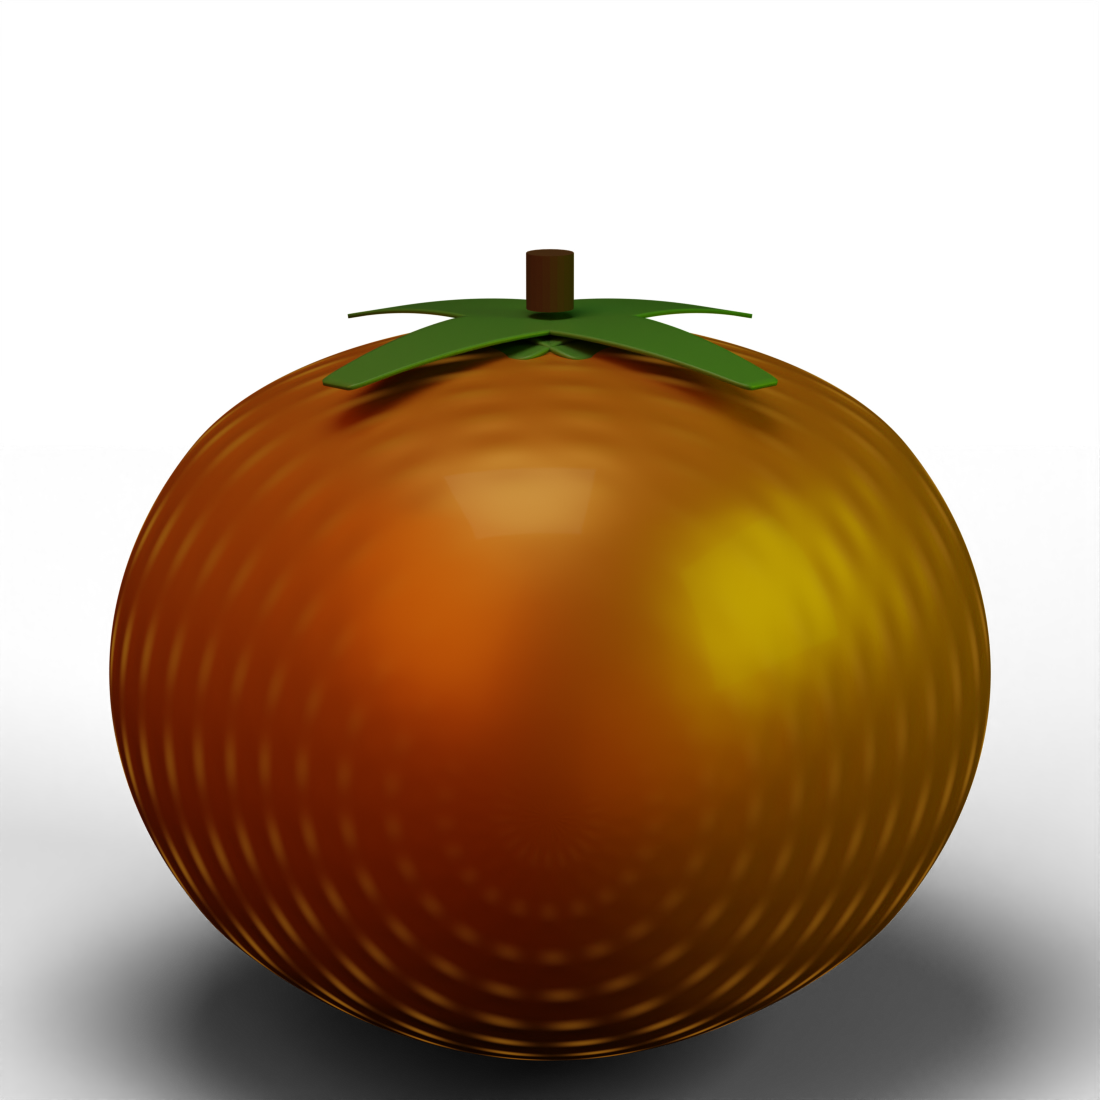
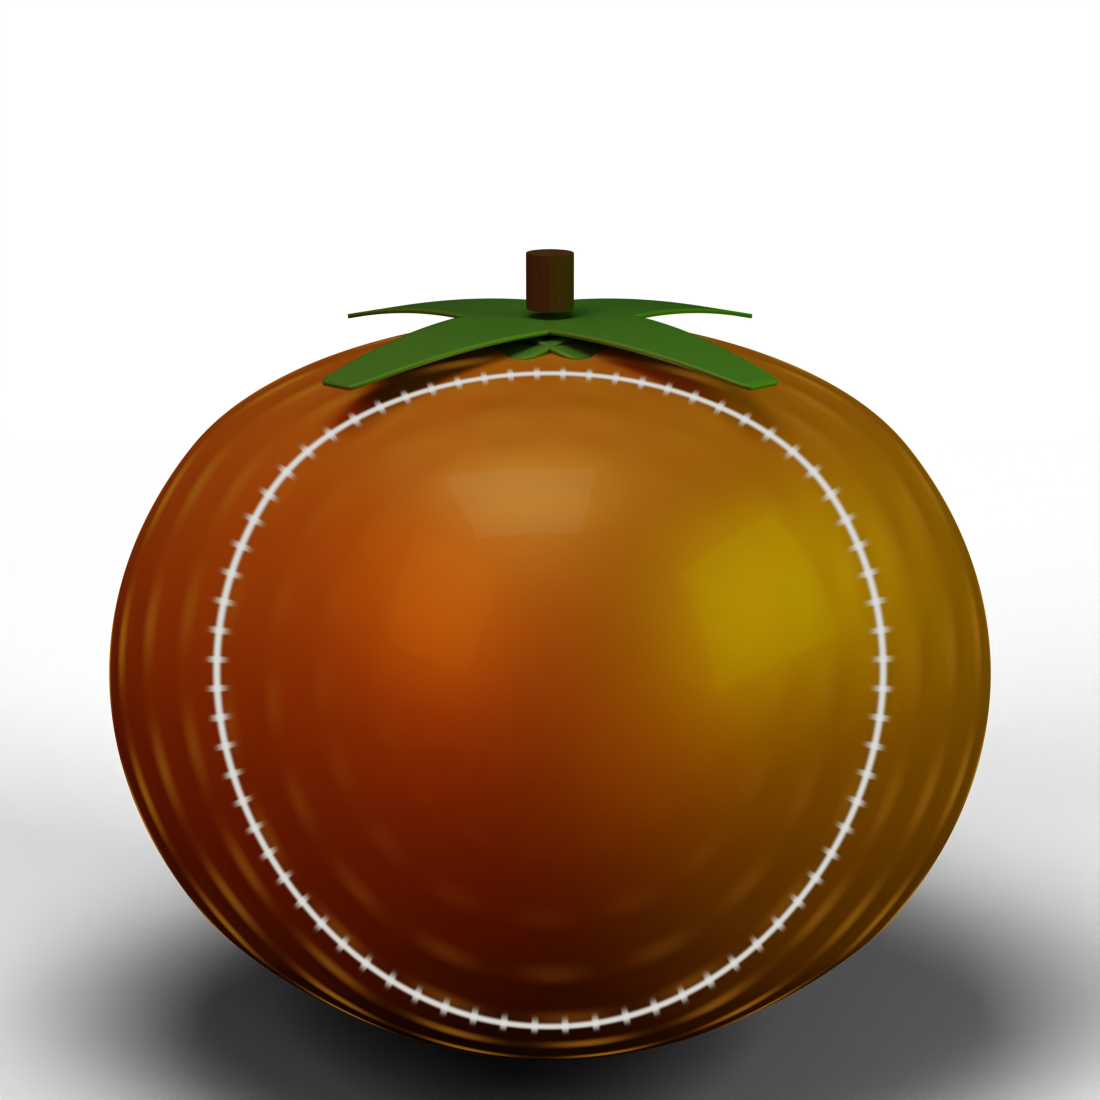
Fix Genesis Persimmon 3D: root-caused why the stamp ring was invisible
Two real bugs, found by isolating the material into fast (~20s) diagnostic
renders instead of guessing across 5-minute full renders:

1. WRONG POLE AXIS. The guilloche/stamp parameterization measured
   latitude from a hardcoded object-space -Y axis, assuming that's
   'toward the camera'. It isn't: this camera is elevated (z=2.05) and
   tilted down at the fruit, so its actual view direction is well off
   pure -Y. Verified empirically — rendering the raw v (latitude)
   value as grayscale showed the parameterization's 'pole' sitting near
   the BOTTOM edge of the visible dome instead of centred. Fixed by
   computing an orthonormal basis (front/right/up) from the camera's
   actual direction via mathutils, and using dot products against that
   basis (ShaderNodeVectorMath) instead of raw component extraction.

2. V-COORDINATE FLIP. Even with the pole fixed, the stamp ring (a single
   thin bright row in the baked texture) was still completely absent.
   Root cause: Blender's Image Texture node samples the Vector input's Y
   component using the OpenGL/UV convention (V=0 = BOTTOM row of the
   source file), which is the opposite of the top-to-bottom row order
   make_texture.py wrote the pole into. The wide (multi-row) height/crest
   patterns just looked phase-shifted and were easy to mistake for
   'working, roughly' — a single-row feature like the stamp exposed the
   bug outright, since it landed entirely outside the dome's visible
[…]

diff --git a/art/genesis-3d/scene.py b/art/genesis-3d/scene.py
@@ -31,7 +31,8 @@ bpy.ops.wm.read_factory_settings(use_empty=True)
 scene = bpy.context.scene
 scene.render.engine = 'CYCLES'
 scene.cycles.device = 'CPU'
-scene.cycles.samples = 240
+scene.cycles.samples = 320
+scene.cycles.blur_glossy = 0.65
 scene.cycles.use_denoising = True
 try: scene.cycles.denoiser = 'OPENIMAGEDENOISE'
 except Exception: pass
@@ -93,23 +94,43 @@ def M(op, a=None, b=None, c=None):
         else: n.inputs[i].default_value = float(v)
     return n
 
-LAT_ENTRY = 0.55
+LAT_ENTRY = 0.86
 
-# ── lon/lat from the FRONT POLE (-Y, toward camera) ─────────────────────────
-# This part stays as math nodes: it is smooth and low-frequency (one sphere's
-# worth of angle, not 50+ rings), so it does not alias. Only the actual
-# high-frequency ring pattern moves to a filtered image texture below.
+# ── lon/lat from the FRONT POLE, defined by the ACTUAL camera direction ────
+# A fixed axis (pure object -Y) was the earlier bug: this camera is elevated
+# and tilted down at the fruit, so the point that actually faces it is well
+# off the -Y axis. Verified empirically (rendering v alone as grayscale
+# showed the "pole" sitting near the BOTTOM of frame, not centre, with a
+# fixed -Y axis). The correct pole is the camera's own direction, decomposed
+# into an orthonormal basis with mathutils and fed in as three constant
+# vectors — proper spherical coordinates around the camera axis, not the
+# object's arbitrary local Y.
+from mathutils import Vector as _V
+_cam_loc = _V((0, -7.0, 2.05))          # kept in sync with the camera below
+_P = _cam_loc.normalized()               # pole: object centre -> camera
+_R = _P.cross(_V((0, 0, 1))).normalized()
+_U = _R.cross(_P).normalized()
+
 tc = nt.nodes.new("ShaderNodeTexCoord")
-sep = nt.nodes.new("ShaderNodeSeparateXYZ")
-nt.links.new(tc.outputs['Object'], sep.inputs['Vector'])
-ox, oy, oz = sep.outputs['X'], sep.outputs['Y'], sep.outputs['Z']
-ln = M('SQRT', M('ADD', M('ADD', M('MULTIPLY', ox, ox), M('MULTIPLY', oy, oy)), M('MULTIPLY', oz, oz)))
-cosLat = M('MULTIPLY', M('DIVIDE', oy, ln), -1.0)
-lat = M('ARCCOSINE', cosLat)
-az = M('ARCTAN2', oz, ox)
+vnorm = nt.nodes.new("ShaderNodeVectorMath"); vnorm.operation = 'NORMALIZE'
+nt.links.new(tc.outputs['Object'], vnorm.inputs[0])
+
+def dotc(vec3):
+    n = nt.nodes.new("ShaderNodeVectorMath"); n.operation = 'DOT_PRODUCT'
+    nt.links.new(vnorm.outputs['Vector'], n.inputs[0])
+    n.inputs[1].default_value = tuple(vec3)
+    return n
+
+cosLat = dotc(_P)
+lat = M('ARCCOSINE', cosLat.outputs['Value'])
+az = M('ARCTAN2', dotc(_U).outputs['Value'], dotc(_R).outputs['Value'])
 
 u = M('MULTIPLY', M('ADD', az, math.pi), 1.0 / (2 * math.pi))
-v = M('MULTIPLY', lat, 1.0 / math.pi)
+# Blender's Image Texture V=0 is the BOTTOM row of the source file (OpenGL/UV
+# convention), opposite of the top-to-bottom row order make_texture.py wrote
+# the pole into. Flip here rather than in the generator, so the .py stays
+# readable as "row 0 = pole" on disk.
+v = M('SUBTRACT', 1.0, M('MULTIPLY', lat, 1.0 / math.pi))
 comb = nt.nodes.new("ShaderNodeCombineXYZ")
 nt.links.new(u.outputs[0], comb.inputs['X'])
 nt.links.new(v.outputs[0], comb.inputs['Y'])
@@ -142,8 +163,8 @@ nt.links.new(hfinal.outputs[0], bump.inputs['Height'])
 nt.links.new(bump.outputs['Normal'], bsdf.inputs['Normal'])
 
 bsdf.inputs['Base Color'].default_value = AMBER
-bsdf.inputs['Roughness'].default_value = 0.42
-bsdf.inputs['Metallic'].default_value = 0.42
+bsdf.inputs['Roughness'].default_value = 0.50
+bsdf.inputs['Metallic'].default_value = 0.36
 try: bsdf.inputs['Coat Weight'].default_value = 0.12
 except KeyError: pass
 try:
@@ -156,7 +177,7 @@ crestf = M('MULTIPLY', crest.outputs['Color'], face)
 em_amber = nt.nodes.new("ShaderNodeEmission"); em_amber.inputs['Color'].default_value = BRIGHT
 em_amber.inputs['Strength'].default_value = 1.0
 em_stamp = nt.nodes.new("ShaderNodeEmission"); em_stamp.inputs['Color'].default_value = CREAM
-em_stamp.inputs['Strength'].default_value = 1.35
+em_stamp.inputs['Strength'].default_value = 3.4
 mix_c = nt.nodes.new("ShaderNodeMixShader")
 mix_s = nt.nodes.new("ShaderNodeMixShader")
 nt.links.new(crestf.outputs[0], mix_c.inputs['Fac'])
@@ -222,7 +243,7 @@ def area(name, loc, energy, color, size, rot):
     L.rotation_euler = rot
     return L
 
-area("Key",  (-3.4, -3.6, 3.4), 320, AMBER, 4.6, (math.radians(50), 0, math.radians(-44)))
+area("Key",  (-3.4, -3.6, 3.4), 260, AMBER, 3.0, (math.radians(50), 0, math.radians(-44)))
 area("Rim",  ( 3.9, -1.4, 1.9), 150, LIME,   2.4, (math.radians(72), 0, math.radians(62)))
 area("Fill", ( 2.6, -3.2,-0.4), 80, DEEP,   4.5, (math.radians(96), 0, math.radians(40)))
 area("Top",  ( -0.6, -1.2, 4.6), 150, CREAM, 2.8, (math.radians(8), 0, 0))

diff --git a/art/genesis-3d/make_texture.py b/art/genesis-3d/make_texture.py
@@ -21,8 +21,8 @@ import os, math
 HERE = os.path.dirname(os.path.abspath(__file__))
 W, H = 2048, 1024
 SS = 3                      # supersample factor, box-downsampled -> AA
-FREQ, K, CURL = 52.0, 22.0, 6.0
-LAT_ENTRY = 0.55            # the stamped ring, radians of latitude
+FREQ, K, CURL = 40.0, 17.0, 5.0
+LAT_ENTRY = 0.86            # the stamped ring, radians of latitude
 STAMP_SIGMA = 0.0065        # narrow: an instrument line, not a wide band
 
 Ws, Hs = W * SS, H * SS
